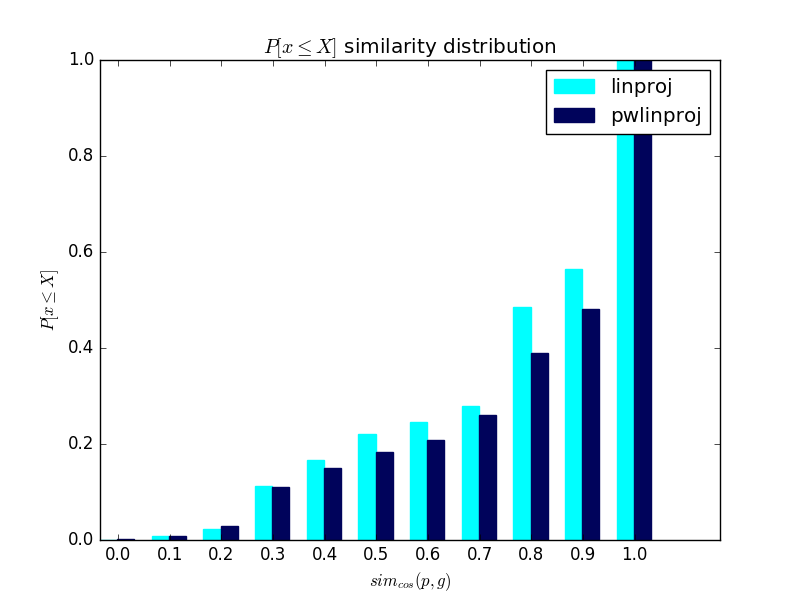
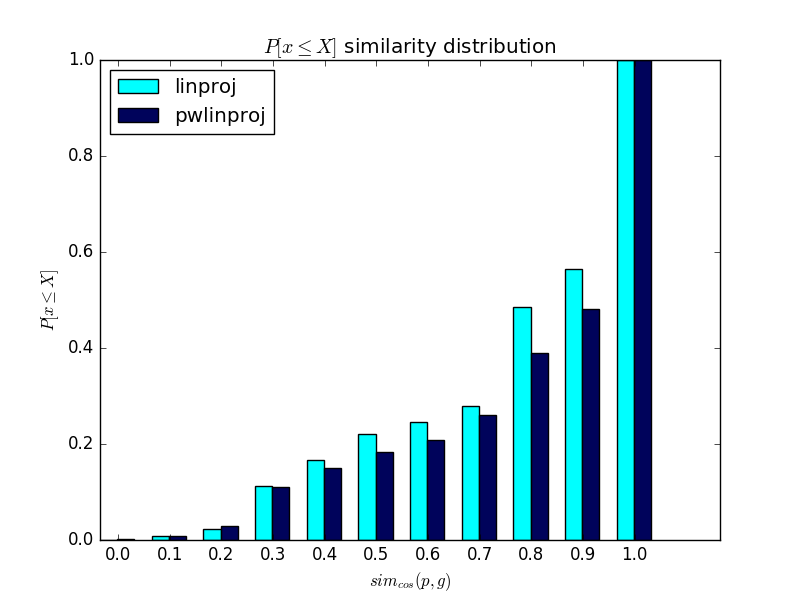
Added similarity histogram plot.

diff --git a/scripts/plot_prediction_gold_similarities.py b/scripts/plot_prediction_gold_similarities.py
@@ -15,13 +15,11 @@ def main():
     predictions_path = '../evaluation/results_{}-20161107.csv'
     test_data_path = '../evaluation/test_data-20161107.csv'
 
-    sim_sample_plot_path = '../evaluation/plots/sim_sample_{}-20161107.png'
+    sim_hist_plot_path = '../evaluation/plots/sim_hist_{}-20161107.png'
     leq_sim_distr_plot_path = '../evaluation/plots/le_sim_distr_{}-20161107.png'
-    geq_sim_distr_plot_path = '../evaluation/plots/ge_sim_distr_{}-20161107.png'
 
-    comb_sim_sample_plot_path = '../evaluation/plots/comb_sim_sample_{}-20161107.png'
+    comb_sim_hist_plot_path = '../evaluation/plots/comb_sim_hist_{}-20161107.png'
     comb_leq_sim_distr_plot_path = '../evaluation/plots/comb_le_sim_distr_{}-20161107.png'
-    comb_geq_sim_distr_plot_path = '../evaluation/plots/comb_ge_sim_distr_{}-20161107.png'
 
     algorithms = [
         'baseline',
@@ -36,6 +34,7 @@ def main():
     ]
 
     steps = 11
+    nbins = 10
     round_to = 3
 
     with open(config_path) as f:
@@ -73,19 +72,18 @@ def main():
     for algorithm in algorithms:
         plt.figure(1)
         axes = plt.gca()
-        axes.set_ylim([0, 1])
-        # plot density function
-        axes.set_xlim([0, gold_count])
-        x_count = np.arange(1, gold_count+1)
-        y_sim = np.sort(similarities[algorithm])
-        plt.plot(x_count, y_sim, linewidth=6, label=algorithm, color=algo2color(algorithm))
-        plt.xlabel('$i$')
-        plt.ylabel('$\mathit{sim}_\mathit{cos}(p_i, g_i)$')
-        plt.title('{}: similarity for all prediction-gold pairs'.format(algorithm))
-        plt.savefig(sim_sample_plot_path.format(algorithm))
+        # plot similarity histogram
+        axes.set_xlim([None, 1])
+        n, bins, _ = plt.hist(similarities[algorithm], bins=nbins, label=algorithm,
+                              color=algo2color(algorithm))
+        plt.xticks(bins, np.round(bins, decimals=2))
+        plt.xlabel('$\mathit{sim}_\mathit{cos}(p_i, g_i)$')
+        plt.ylabel('count')
+        plt.title('{}: similarity histogram'.format(algorithm))
+        plt.savefig(sim_hist_plot_path.format(algorithm))
         plt.clf()
-        logging.log(level=logging.INFO, msg='plotted similarity samples of {}\n stored in {}'
-                    .format(algorithm, sim_sample_plot_path.format(algorithm)))
+        logging.log(level=logging.INFO, msg='plotted similarity histogram of {}\n stored in {}'
+                    .format(algorithm, sim_hist_plot_path.format(algorithm)))
         # plot similarity distributions
         axes.set_xlim([0, 1])
         x_sim = np.linspace(0, 1, num=steps)
@@ -103,45 +101,29 @@ def main():
         logging.log(level=logging.INFO, msg='plotted similarity distribution of {}\n stored in {}'
                     .format(algorithm, leq_sim_distr_plot_path.format(algorithm)))
 
-        # plot geq similarity distribution
-        for idx, sim in enumerate(x_sim):
-            y_prob[idx] = np.count_nonzero(similarities[algorithm] >= sim) / gold_count
-        plt.bar(np.arange(0, steps), y_prob, alpha=1, label=algorithm, color=algo2color(algorithm))
-        plt.xticks(np.arange(0, steps) + 0.5, np.round(x_sim, decimals=round_to))
-        plt.xlabel('$\mathit{sim}_\mathit{cos}(p, g)$')
-        plt.ylabel('$P[x \geq X]$')
-        plt.title('{}: $P[x \geq X]$ similarity distribution'.format(algorithm))
-        plt.savefig(geq_sim_distr_plot_path.format(algorithm))
-        plt.clf()
-        logging.log(level=logging.INFO, msg='plotted similarity distribution of {}\n stored in {}'
-                    .format(algorithm, geq_sim_distr_plot_path.format(algorithm)))
-
     for combined_plot in combined_plots:
         width = 1.0/(len(combined_plot)+1)
         step_offset = 1.0/len(combined_plot)
 
         plt.figure(1)
         axes = plt.gca()
-        axes.set_ylim([0, 1])
-
         # plot density function
-        axes.set_xlim([0, gold_count])
-        legend_handles = list()
-        x_count = np.arange(1, gold_count + 1)
-        for algorithm in combined_plot:
-            y_sim = np.sort(similarities[algorithm])
-            rect = plt.plot(x_count, y_sim, linewidth=6, label=algorithm, color=algo2color(algorithm))
-            legend_handles.append(rect[0])
-        plt.xlabel('$i$')
-        plt.ylabel('$\mathit{sim}_\mathit{cos}(p_i, g_i)$')
-        plt.title('similarity for all prediction-gold pairs'.format(','.join(combined_plot)))
-        plt.legend(legend_handles, combined_plot)
-        plt.savefig(comb_sim_sample_plot_path.format('_'.join(combined_plot)))
         plt.clf()
-        logging.log(level=logging.INFO, msg='plotted similarity samples of {}\n stored in {}'
-                    .format(','.join(combined_plot), comb_sim_sample_plot_path.format('_'.join(combined_plot))))
+        sim = np.array(list(zip(*[similarities[algo] for algo in combined_plot])))
+        n, bins, _ = plt.hist(sim, bins=nbins, label=combined_plot,
+                              color=[algo2color(algo) for algo in combined_plot])
+        plt.xticks(bins, np.round(bins, decimals=2))
+        plt.legend(loc=2)
+        plt.xlabel('$\mathit{sim}_\mathit{cos}(p_i, g_i)$')
+        plt.ylabel('count')
+        plt.title('similarity histograms'.format(','.join(combined_plot)))
+        plt.savefig(comb_sim_hist_plot_path.format('_'.join(combined_plot)))
+        plt.clf()
+        logging.log(level=logging.INFO, msg='plotted similarity histogram of {}\n stored in {}'
+                    .format(','.join(combined_plot), comb_sim_hist_plot_path.format('_'.join(combined_plot))))
 
         # plot similarity distributions
+        plt.clf()
         axes.set_xlim([0, 1])
         x_sim = np.linspace(0, 1, num=steps)
         # plot leq similarity distribution
@@ -151,38 +133,17 @@ def main():
             for idx, sim in enumerate(x_sim):
                 y_prob[idx] = np.count_nonzero(similarities[algorithm] <= sim) / gold_count
             rect = plt.bar(np.arange(0, steps) + bar_idx*(step_offset if bar_idx == 0 else width),
-                           y_prob, width=width, linewidth=1, fill=True, label=algorithm, color=algo2color(algorithm),
-                           edgecolor=algo2color(algorithm))
+                           y_prob, width=width, label=algorithm, color=algo2color(algorithm))
             legend_handles.append(rect[0])
         plt.xticks(np.arange(0, steps) + 0.35, np.round(x_sim, decimals=round_to))
         plt.xlabel('$\mathit{sim}_\mathit{cos}(p, g)$')
         plt.ylabel('$P[x \leq X]$')
         plt.title('$P[x \leq X]$ similarity distribution'.format(','.join(combined_plot)))
-        plt.legend(legend_handles, combined_plot)
+        plt.legend(legend_handles, combined_plot, loc=2)
         plt.savefig(comb_leq_sim_distr_plot_path.format('_'.join(combined_plot)))
-        plt.clf()
         logging.log(level=logging.INFO, msg='plotted similarity distribution of {}\n stored in {}'
                     .format(','.join(combined_plot), comb_leq_sim_distr_plot_path.format('_'.join(combined_plot))))
 
-        # plot geq similarity distribution
-        legend_handles = list()
-        for bar_idx, algorithm in enumerate(combined_plot):
-            y_prob = np.zeros(steps)
-            for idx, sim in enumerate(x_sim):
-                y_prob[idx] = np.count_nonzero(similarities[algorithm] >= sim) / gold_count
-            rect = plt.bar(np.arange(0, steps) + bar_idx*(step_offset if bar_idx == 0 else width),
-                           y_prob, width=width, linewidth=1, fill=True, label=algorithm, color=algo2color(algorithm),
-                           edgecolor=algo2color(algorithm))
-            legend_handles.append(rect[0])
-        plt.xticks(np.arange(0, steps) + 0.35, np.round(x_sim, decimals=round_to))
-        plt.xlabel('$\mathit{sim}_\mathit{cos}(p, g)$')
-        plt.ylabel('$P[x \geq X]$')
-        plt.title('$P[x \geq X]$ similarity distribution'.format(','.join(combined_plot)))
-        plt.legend(legend_handles, combined_plot)
-        plt.savefig(comb_geq_sim_distr_plot_path.format('_'.join(combined_plot)))
-        plt.clf()
-        logging.log(level=logging.INFO, msg='plotted similarity distribution of {}\n stored in {}'
-                    .format(','.join(combined_plot), comb_geq_sim_distr_plot_path.format('_'.join(combined_plot))))
 
 if __name__ == '__main__':
     main()

diff --git a/scripts/execute_hybrid_algorithms.py b/scripts/execute_hybrid_algorithms.py
@@ -14,7 +14,7 @@ def main():
     col_sep = ','
     row_sep = '\n'
 
-    combined_algorithms = ['pwlinproj']
+    combined_algorithms = ['gw+pwlinproj']
 
     results = execute_combined_algorithms(
         combined_algorithms=combined_algorithms,
